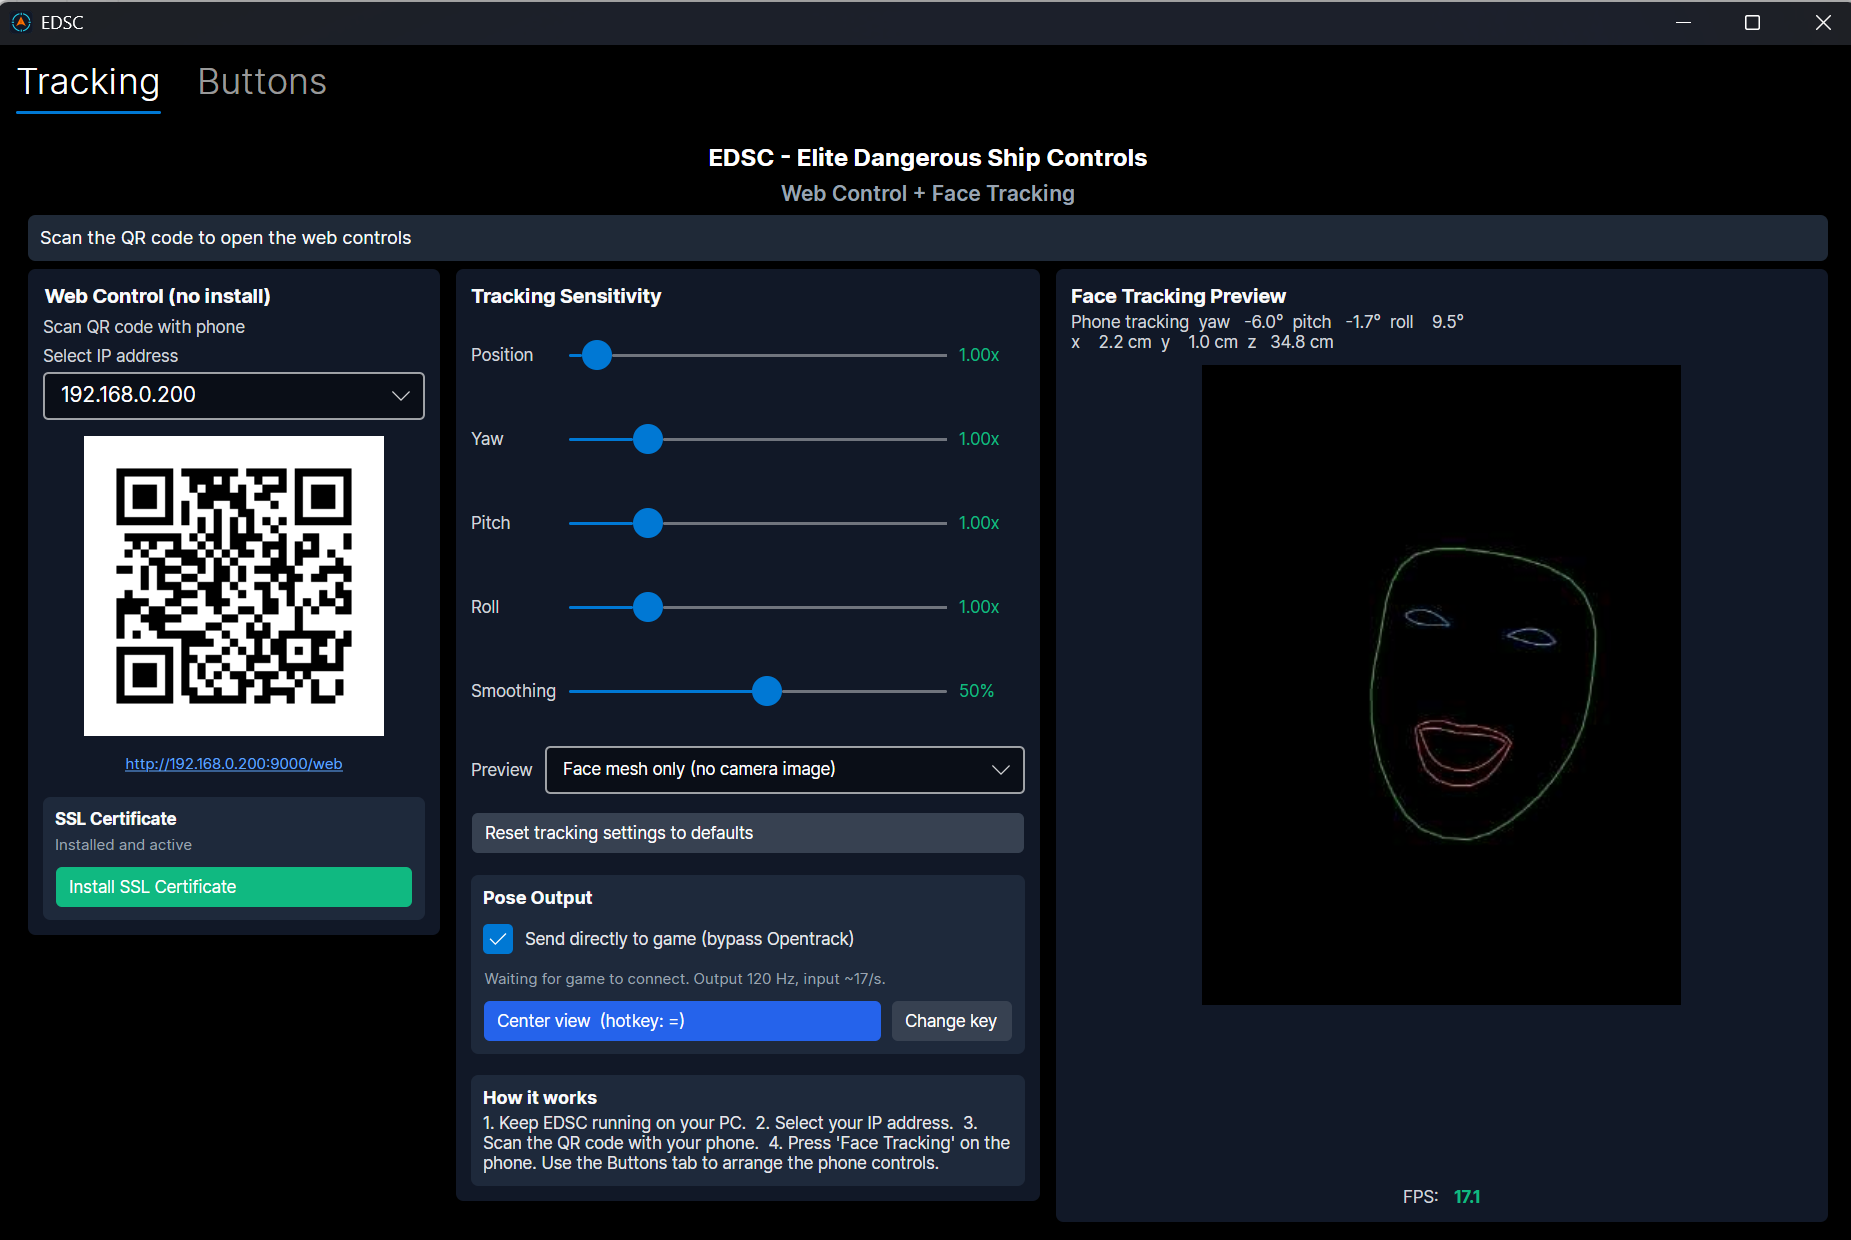
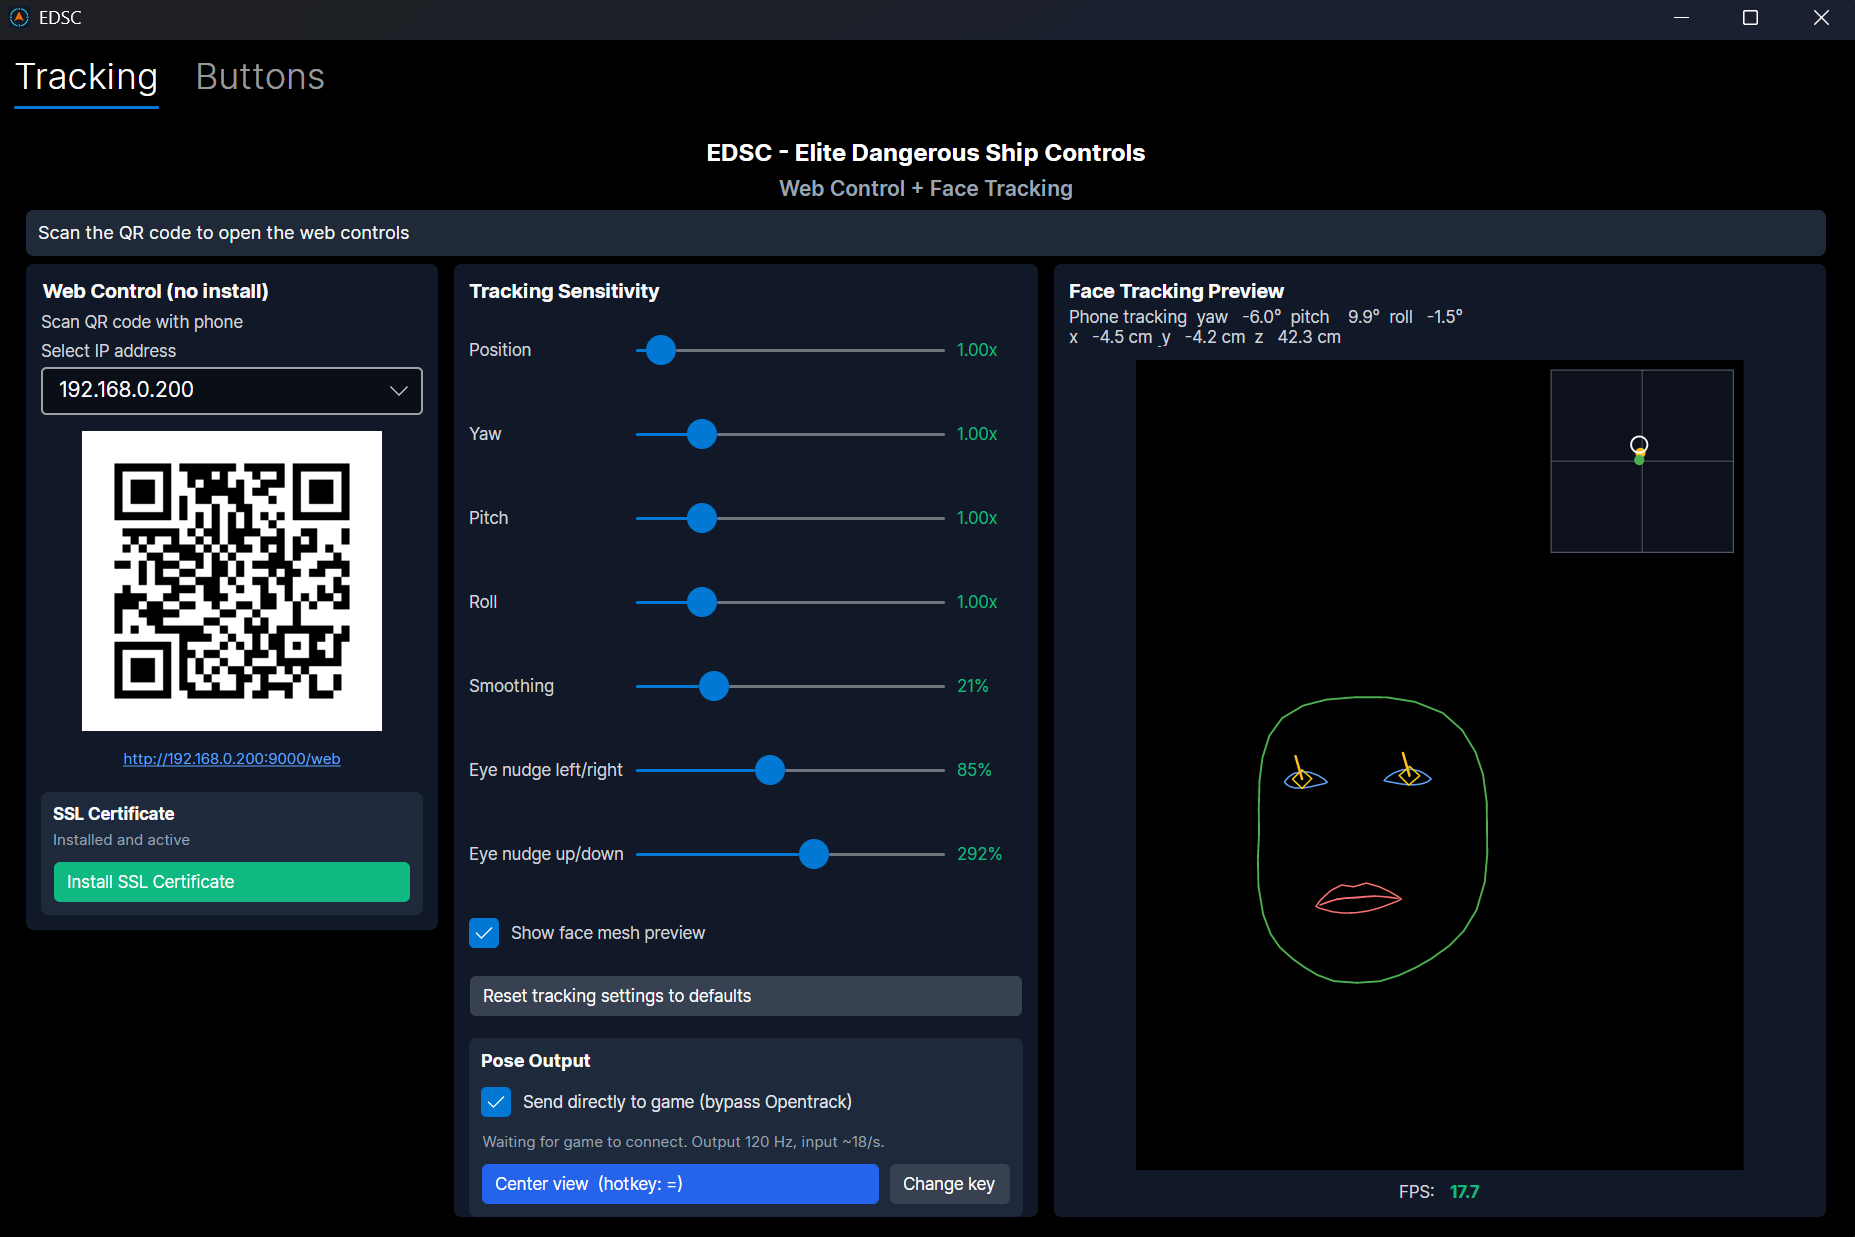
docs: refresh the Tracking tab screenshot for the current UI
The old shot predated 2.0.5: it showed the preview mode dropdown and had no
eye nudge sliders. The new one shows both nudge sliders, the mesh preview
checkbox, and the gaze projection with iris rings, per-eye rays and the view
window inset. Caption updated to point at those.

diff --git a/README.md b/README.md
@@ -18,7 +18,7 @@ EDSC is a Windows desktop app that serves a web control panel for Elite Dangerou
 
 ## Screenshots
 
-**Desktop, Tracking tab.** IP selection and QR code, sensitivity and output settings, and the face mesh preview.
+**Desktop, Tracking tab.** IP selection and QR code, the sensitivity and eye nudge sliders, and the face mesh preview. The preview shows the iris rings and a ray from each eye, with the view window inset in the corner: green for the head, yellow for where the eyes look, white for what the game receives.
 
 ![EDSC desktop app, Tracking tab](docs/images/desktop-tracking.png)
 
